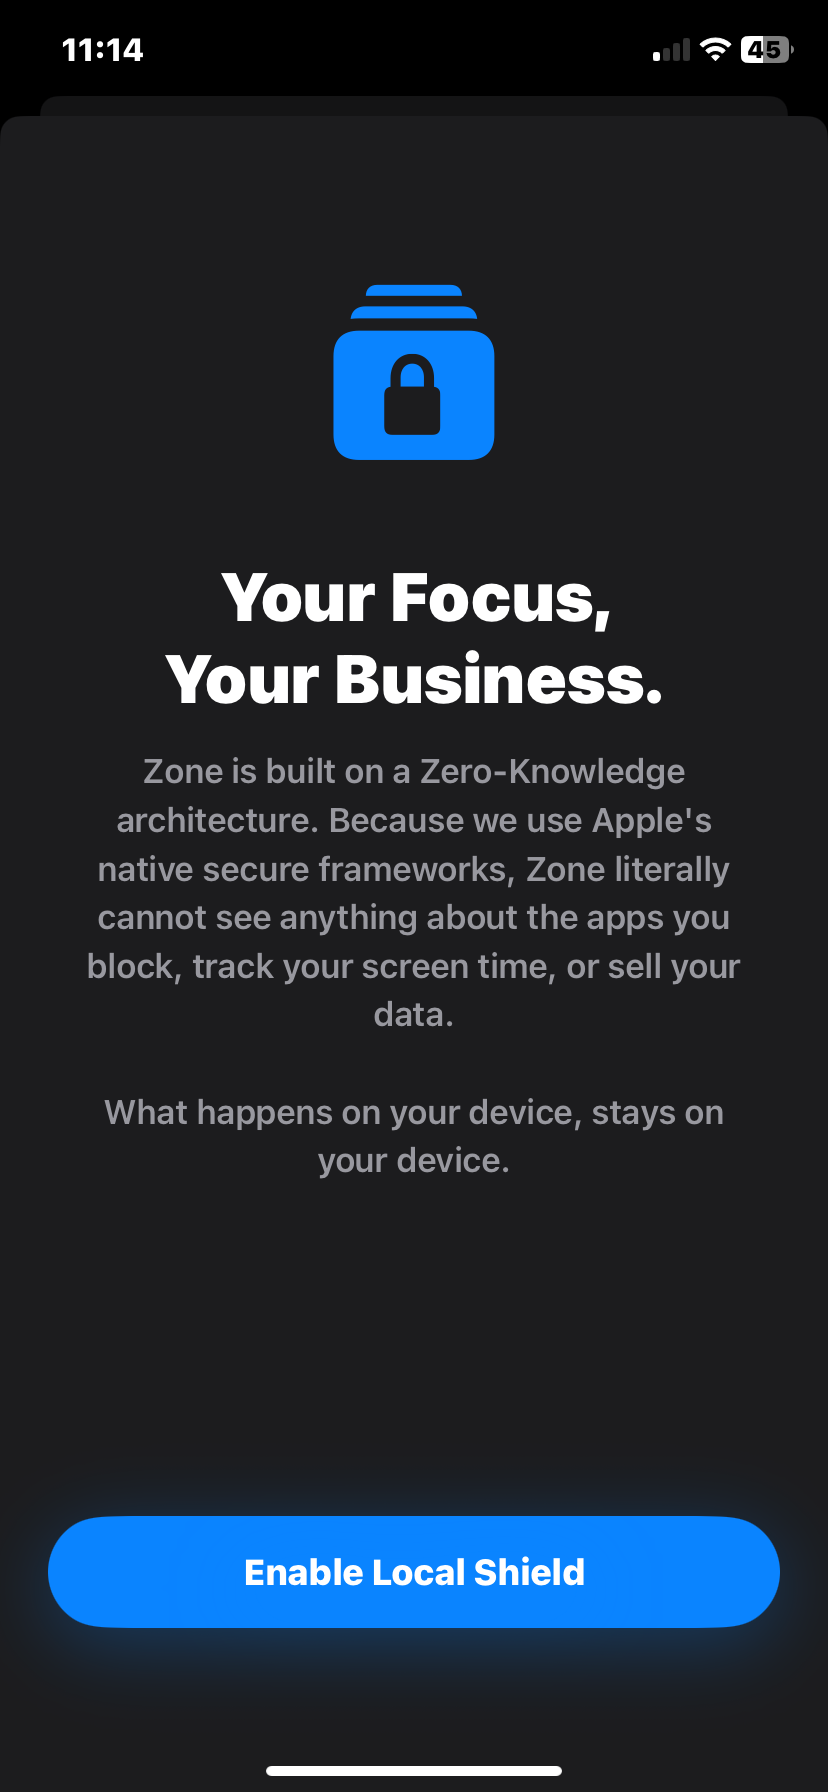
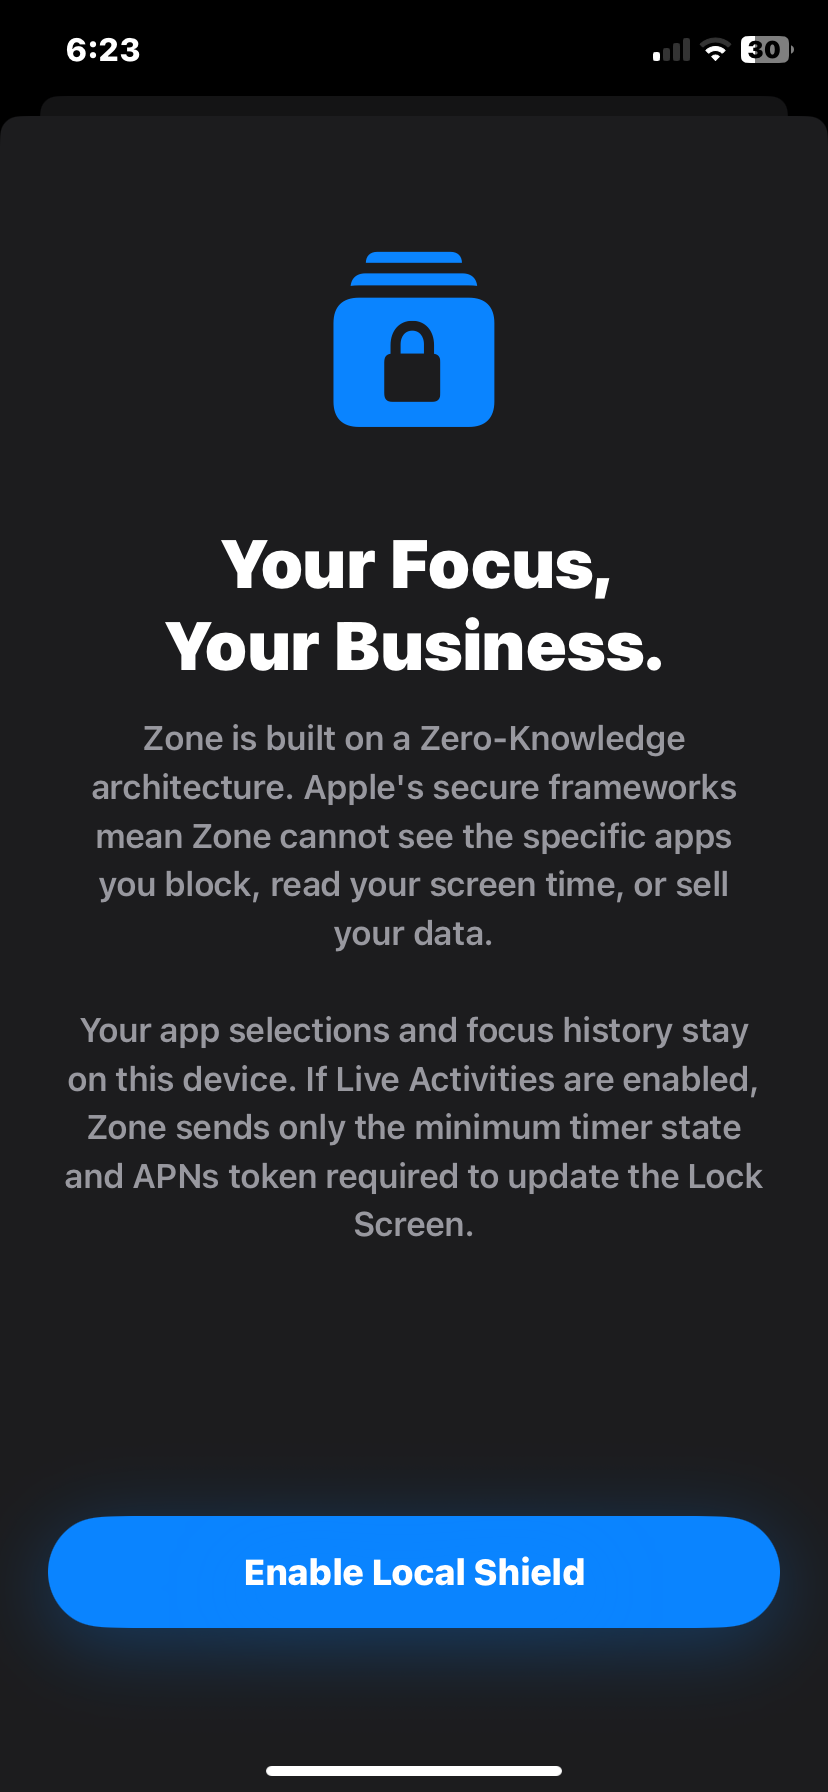
updates to policies.

diff --git a/privacy.html b/privacy.html
@@ -4,7 +4,7 @@
     <meta charset="UTF-8">
     <meta name="viewport" content="width=device-width, initial-scale=1.0">
     <title>Privacy Policy - Zone Focus App</title>
-    <meta name="description" content="Privacy Policy for Zone: Zero-Knowledge Architecture.">
+    <meta name="description" content="Privacy Policy for Zone: Zero-Knowledge focus data with minimal Live Activity scheduling.">
     <script src="https://cdn.tailwindcss.com"></script>
     <script>
         tailwind.config = {
@@ -36,52 +36,62 @@
             
             <header class="mb-12 text-center">
                 <h1 class="text-4xl md:text-5xl font-bold tracking-tight mb-4">Privacy Policy</h1>
-                <p class="text-xl text-systemBlue font-medium">Effective Date: April 24, 2026</p>
+                <p class="text-xl text-systemBlue font-medium">Effective Date: May 12, 2026</p>
             </header>
 
             <div class="bg-systemGray rounded-2xl p-8 md:p-12 border border-gray-800 space-y-10 shadow-xl shadow-black/50">
                 
                 <section>
                     <h2 class="text-2xl font-semibold mb-4 text-white">1. Zero-Knowledge Architecture</h2>
-                    <p class="text-gray-400 leading-relaxed">Zone is built on a strict "Zero-Knowledge" architecture. The application is designed to function entirely on your local device. We do not require an account, we do not track your app usage, and we do not monitor your screen time.</p>
+                    <p class="text-gray-400 leading-relaxed">Zone is built on a strict "Zero-Knowledge" privacy model for your focus data. We do not require an account, we do not track your app usage, we do not monitor your screen time, and we do not collect analytics about your behavior.</p>
                 </section>
 
                 <section>
                     <h2 class="text-2xl font-semibold mb-4 text-white">2. Apple Family Controls</h2>
-                    <p class="text-gray-400 leading-relaxed mb-4">To provide its core distraction-blocking features, Zone utilizes Apple's native FamilyControls and ManagedSettings APIs.</p>
+                    <p class="text-gray-400 leading-relaxed mb-4">To provide its core distraction-blocking features, Zone uses Apple's native FamilyControls and ManagedSettings APIs.</p>
                     <ul class="list-disc list-outside ml-6 text-gray-400 leading-relaxed space-y-3">
-                        <li><strong class="text-gray-200">Local Processing:</strong> The list of applications and websites you choose to block is encrypted and managed entirely by the iOS operating system.</li>
-                        <li><strong class="text-gray-200">No Developer Access:</strong> We literally cannot see, read, or access the names of the apps or categories you select. This data never leaves your device.</li>
+                        <li><strong class="text-gray-200">Local Processing:</strong> The list of applications, websites, and categories you choose to block is encrypted and managed by iOS.</li>
+                        <li><strong class="text-gray-200">No Developer Access:</strong> We cannot see, read, or access the names of the apps, websites, or categories you select. This selection data never leaves your device.</li>
                     </ul>
                 </section>
 
                 <section>
                     <h2 class="text-2xl font-semibold mb-4 text-white">3. Data Collection and Storage</h2>
-                    <p class="text-gray-400 leading-relaxed mb-4">Zone collects <strong class="text-white">zero</strong> personal data.</p>
+                    <p class="text-gray-400 leading-relaxed mb-4">Zone does not collect account, identity, advertising, analytics, app-selection, or screen-time data.</p>
                     <ul class="list-disc list-outside ml-6 text-gray-400 leading-relaxed space-y-3">
-                        <li>Your focus session history, total time reclaimed, and streak data are saved strictly locally on your device's internal storage using Apple's secure frameworks.</li>
-                        <li>We do not use third-party analytics to track your behavior or screen interactions.</li>
-                        <li>We do not transmit any focus data to remote servers or third-party databases.</li>
+                        <li>Your focus session history, total time reclaimed, streak data, insights, and weekly summaries are saved locally on your device.</li>
+                        <li>We do not use third-party analytics SDKs to track your behavior or screen interactions.</li>
+                        <li>We do not sell, rent, or share your personal data with advertisers or data brokers.</li>
                     </ul>
                 </section>
 
                 <section>
-                    <h2 class="text-2xl font-semibold mb-4 text-white">4. Apple Health Integration</h2>
-                    <p class="text-gray-400 leading-relaxed mb-4">Zone offers an optional feature to sync your completed deep work sessions to the Apple Health app as "Mindful Minutes."</p>
+                    <h2 class="text-2xl font-semibold mb-4 text-white">4. Live Activities and Dynamic Island</h2>
+                    <p class="text-gray-400 leading-relaxed mb-4">Zone uses Apple's Live Activity system to keep your Lock Screen and Dynamic Island timer updated. To support completion updates when the app is not open, Zone sends a minimal scheduling payload to our Google Cloud backend.</p>
                     <ul class="list-disc list-outside ml-6 text-gray-400 leading-relaxed space-y-3">
-                        <li><strong class="text-gray-200">Local Writing Only:</strong> Zone only requests permission to <em>write</em> data to your local Apple Health database. We do not read your other health metrics.</li>
-                        <li><strong class="text-gray-200">No Transmission:</strong> Your health data is never transmitted to our servers, nor is it stored outside of your personal device.</li>
+                        <li><strong class="text-gray-200">What is sent:</strong> The Live Activity push token, remaining timer seconds, running or completion state, and APNs environment.</li>
+                        <li><strong class="text-gray-200">What is not sent:</strong> Your blocked app list, websites, app categories, focus history, streaks, insights, Apple Health data, name, email address, or account information.</li>
+                        <li><strong class="text-gray-200">Purpose:</strong> This data is used only to schedule and deliver Live Activity updates through Apple Push Notification service.</li>
+                    </ul>
+                </section>
+
+                <section>
+                    <h2 class="text-2xl font-semibold mb-4 text-white">5. Apple Health Integration</h2>
+                    <p class="text-gray-400 leading-relaxed mb-4">Zone offers an optional feature to save your completed deep work sessions to the Apple Health app as "Mindful Minutes."</p>
+                    <ul class="list-disc list-outside ml-6 text-gray-400 leading-relaxed space-y-3">
+                        <li><strong class="text-gray-200">Local Writing Only:</strong> Zone only requests permission to <em>write</em> Mindful Minutes to your local Apple Health database. We do not read your other health metrics.</li>
+                        <li><strong class="text-gray-200">No Transmission:</strong> Your Apple Health data is never transmitted to our servers.</li>
                         <li><strong class="text-gray-200">Strictly Private:</strong> We will never sell, share, or use your Apple Health data for advertising, marketing, or data-broker purposes.</li>
                     </ul>
                 </section>
 
                 <section>
-                    <h2 class="text-2xl font-semibold mb-4 text-white">5. Changes to This Policy</h2>
-                    <p class="text-gray-400 leading-relaxed">If we ever introduce optional features in the future that require data syncing, this policy will be updated, and those features will require your explicit, prior consent.</p>
+                    <h2 class="text-2xl font-semibold mb-4 text-white">6. Changes to This Policy</h2>
+                    <p class="text-gray-400 leading-relaxed">If we introduce optional features in the future that require additional data processing or syncing, this policy will be updated, and those features will require your explicit, prior consent where required.</p>
                 </section>
 
                 <section>
-                    <h2 class="text-2xl font-semibold mb-4 text-white">6. Contact</h2>
+                    <h2 class="text-2xl font-semibold mb-4 text-white">7. Contact</h2>
                     <p class="text-gray-400 leading-relaxed">If you have any questions about our privacy practices, please contact us at <a href="mailto:[email redacted]" class="text-systemBlue hover:underline">[email redacted]</a>.</p>
                 </section>
 

diff --git a/support.html b/support.html
@@ -41,7 +41,9 @@
 
             <div class="bg-systemGray rounded-2xl p-8 mb-16 text-center border border-gray-800">
                 <div class="inline-flex items-center justify-center w-12 h-12 rounded-full bg-blue-500/10 text-systemBlue mb-4">
-                    <svg class="w-6 h-6" fill="none" stroke="currentColor" viewBox="0 0 24 24" xmlns="http://www.w3.org/2000/svg"><path stroke-linecap="round" stroke-linejoin="round" stroke-width="2" d="M3 8l7.89 5.26a2 2 0 002.22 0L21 8M5 19h14a2 2 0 002-2V7a2 2 0 00-2-2H5a2 2 0 00-2 2v10a2 2 0 002 2z"></path></svg>
+                    <svg class="w-6 h-6" fill="none" stroke="currentColor" viewBox="0 0 24 24" xmlns="http://www.w3.org/2000/svg">
+                        <path stroke-linecap="round" stroke-linejoin="round" stroke-width="2" d="M3 8l7.89 5.26a2 2 0 002.22 0L21 8M5 19h14a2 2 0 002-2V7a2 2 0 00-2-2H5a2 2 0 00-2 2v10a2 2 0 002 2z"></path>
+                    </svg>
                 </div>
                 <h2 class="text-2xl font-semibold mb-2">Contact Support</h2>
                 <p class="text-gray-400 mb-6">Having issues or want to request a feature? Reach out directly to the developer.</p>
@@ -55,27 +57,32 @@
             <div class="space-y-6">
                 <div class="bg-systemGray rounded-xl p-6 border border-gray-800">
                     <h3 class="text-lg font-semibold mb-2 text-white">Why does Zone need Screen Time permissions?</h3>
-                    <p class="text-gray-400 leading-relaxed">Zone uses Apple's native Family Controls and DeviceActivity APIs to physically prevent you from opening distracting apps while a focus session is active. This is required for the app shielding feature to work natively on iOS.</p>
+                    <p class="text-gray-400 leading-relaxed">Zone uses Apple's native FamilyControls and DeviceActivity APIs to prevent you from opening distracting apps while a focus session is active. This permission is required for app shielding to work natively on iOS.</p>
                 </div>
 
                 <div class="bg-systemGray rounded-xl p-6 border border-gray-800">
                     <h3 class="text-lg font-semibold mb-2 text-white">Can you see which apps I am blocking?</h3>
-                    <p class="text-gray-400 leading-relaxed">Absolutely not. Zone operates on a strict zero-knowledge architecture. Apple's frameworks handle the app selection and shielding completely locally on your device. Your data is never sent to any external servers.</p>
+                    <p class="text-gray-400 leading-relaxed">No. Zone operates on a strict zero-knowledge privacy model for app selection and shielding. Apple's frameworks handle app selection locally on your device, and we cannot see, read, or access the names of the apps, websites, or categories you block. For Live Activity updates only, Zone sends a minimal timer scheduling payload as described in the Privacy Policy.</p>
+                </div>
+
+                <div class="bg-systemGray rounded-xl p-6 border border-gray-800">
+                    <h3 class="text-lg font-semibold mb-2 text-white">Does Zone use a server?</h3>
+                    <p class="text-gray-400 leading-relaxed">Zone does not use a server for accounts, analytics, blocked app selections, focus history, streaks, insights, weekly summaries, or Apple Health data. A minimal Google Cloud scheduler is used only to help update Live Activities and Dynamic Island when a timer completes while the app is not open.</p>
                 </div>
 
                 <div class="bg-systemGray rounded-xl p-6 border border-gray-800">
                     <h3 class="text-lg font-semibold mb-2 text-white">How do I cancel a session if Strict Mode is on?</h3>
-                    <p class="text-gray-400 leading-relaxed">You can't. That is the point of Strict Mode. If you enable Strict Mode, the "End Session" button is disabled to prevent you from abandoning your deep work block. You must wait for the timer to complete to unlock your device's shielded apps.</p>
+                    <p class="text-gray-400 leading-relaxed">You can't. That is the point of Strict Mode. If you enable Strict Mode, the "End Session" button is disabled to prevent you from abandoning your deep work block. You must wait for the timer to complete to unlock your shielded apps.</p>
                 </div>
 
                 <div class="bg-systemGray rounded-xl p-6 border border-gray-800">
                     <h3 class="text-lg font-semibold mb-2 text-white">Why isn't the Live Activity showing on my Dynamic Island?</h3>
-                    <p class="text-gray-400 leading-relaxed">Ensure that you are running iOS 16.2 or later, and check that Live Activities are enabled for Zone in your iPhone's main Settings app (Settings > Zone > Live Activities).</p>
+                    <p class="text-gray-400 leading-relaxed">Ensure that you are running iOS 18 or later, and check that Live Activities are enabled for Zone in your iPhone's main Settings app (Settings > Zone > Live Activities).</p>
                 </div>
 
                 <div class="bg-systemGray rounded-xl p-6 border border-gray-800">
                     <h3 class="text-lg font-semibold mb-2 text-white">How does the Apple Health integration work?</h3>
-                    <p class="text-gray-400 leading-relaxed">If enabled in Settings, Zone can save your completed deep work sessions to the Apple Health app as "Mindful Minutes." We only request <em>write</em> access, meaning we cannot read your personal health metrics. If sessions are not syncing, check <strong>iOS Settings > Health > Data Access & Devices > Zone</strong> to ensure permission is granted.</p>
+                    <p class="text-gray-400 leading-relaxed">If enabled in Settings, Zone can save your completed deep work sessions to the Apple Health app as "Mindful Minutes." We only request <em>write</em> access, meaning we cannot read your personal health metrics. If sessions are not syncing, check <strong>iOS Settings > Health > Data Access &amp; Devices > Zone</strong> to ensure permission is granted.</p>
                 </div>
             </div>
 

diff --git a/index.html b/index.html
@@ -77,7 +77,7 @@
                 <div class="flex-1 text-center lg:text-left">
                     <h2 class="text-3xl lg:text-5xl font-bold mb-6">Strictly Enforced.</h2>
                     <p class="text-lg text-gray-400 leading-relaxed mb-6">
-                        Standard timers just ring. Zone physically prevents you from opening distractions. Once Strict Mode is engaged, there is no pausing, no canceling, and no way out until your deep work session is complete.
+                        Standard timers just ring. Zone blocks distractions during your session. When Strict Mode is engaged, in-app pausing and cancellation are disabled so your deep work block stays protected until the timer completes.
                     </p>
                 </div>
                 <div class="flex-1 flex justify-center lg:justify-end">
@@ -106,7 +106,7 @@
                 <div class="flex-1 text-center lg:text-left">
                     <h2 class="text-3xl lg:text-5xl font-bold mb-6">Your Focus, <br/>Your Business.</h2>
                     <p class="text-lg text-gray-400 leading-relaxed mb-6">
-                        Zone operates entirely on-device with a Zero-Knowledge architecture. We cannot see, track, or monitor the specific apps you block. What happens on your device, stays on your device.
+                        Zone uses a Zero-Knowledge privacy model for your app selections and focus history. We cannot see, track, or monitor the specific apps you block. For Live Activity updates only, Zone sends the minimum timer state needed to update your Lock Screen and Dynamic Island.
                     </p>
                     <a href="privacy.html" class="text-systemBlue hover:underline font-medium">Read our strict Privacy Policy &rarr;</a>
                 </div>